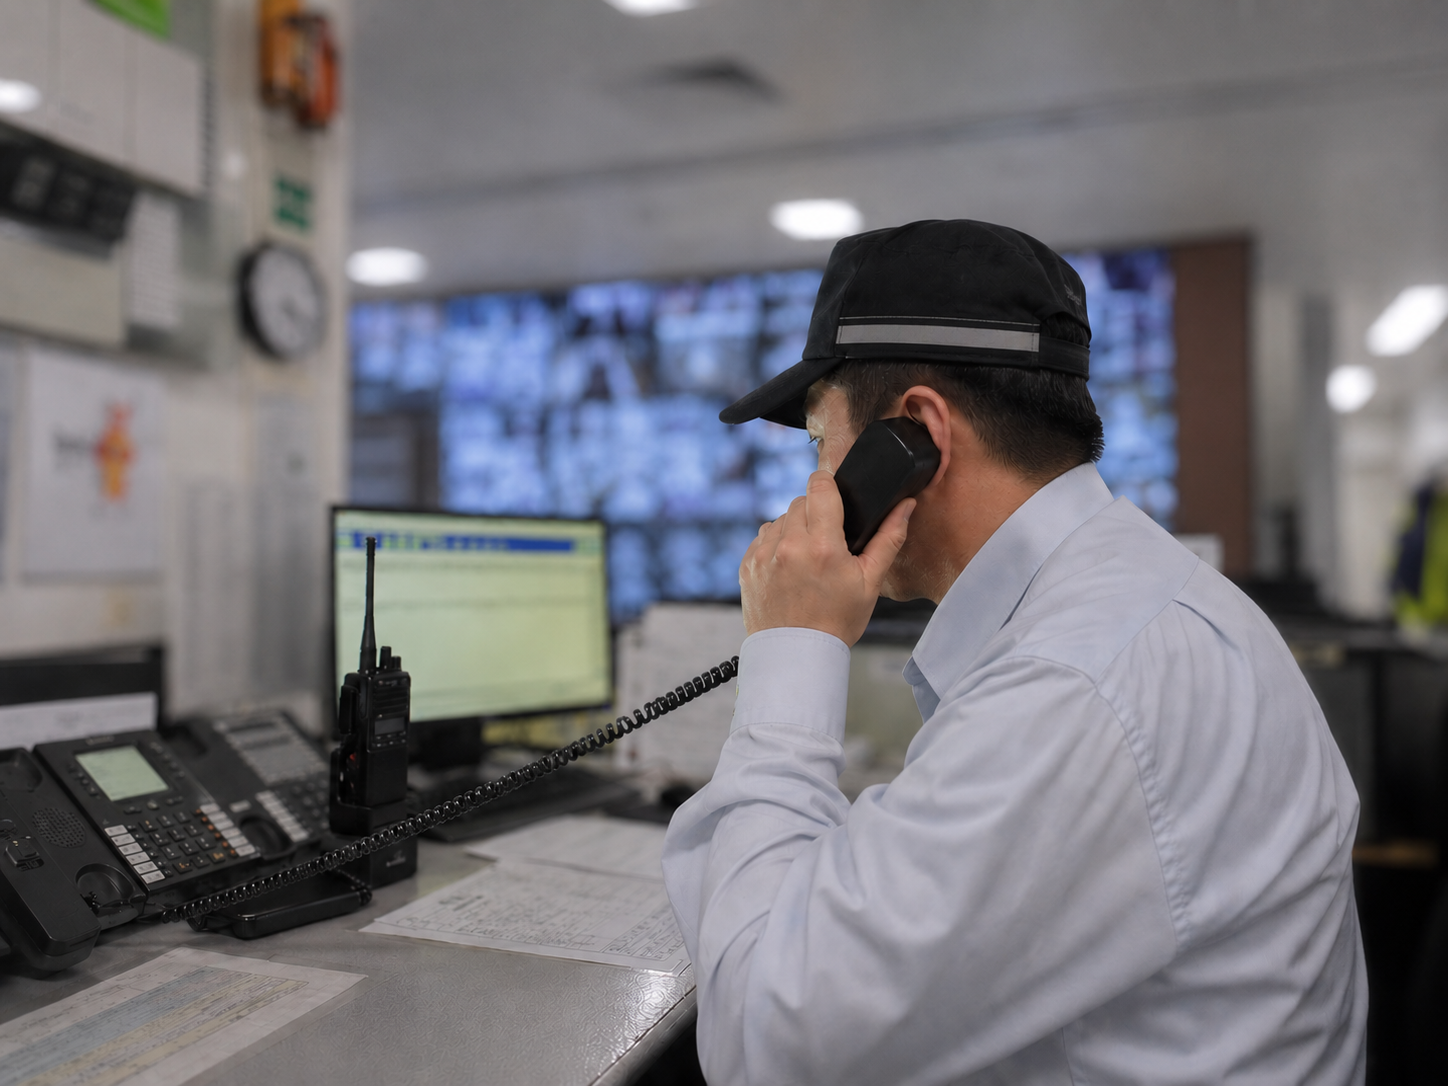
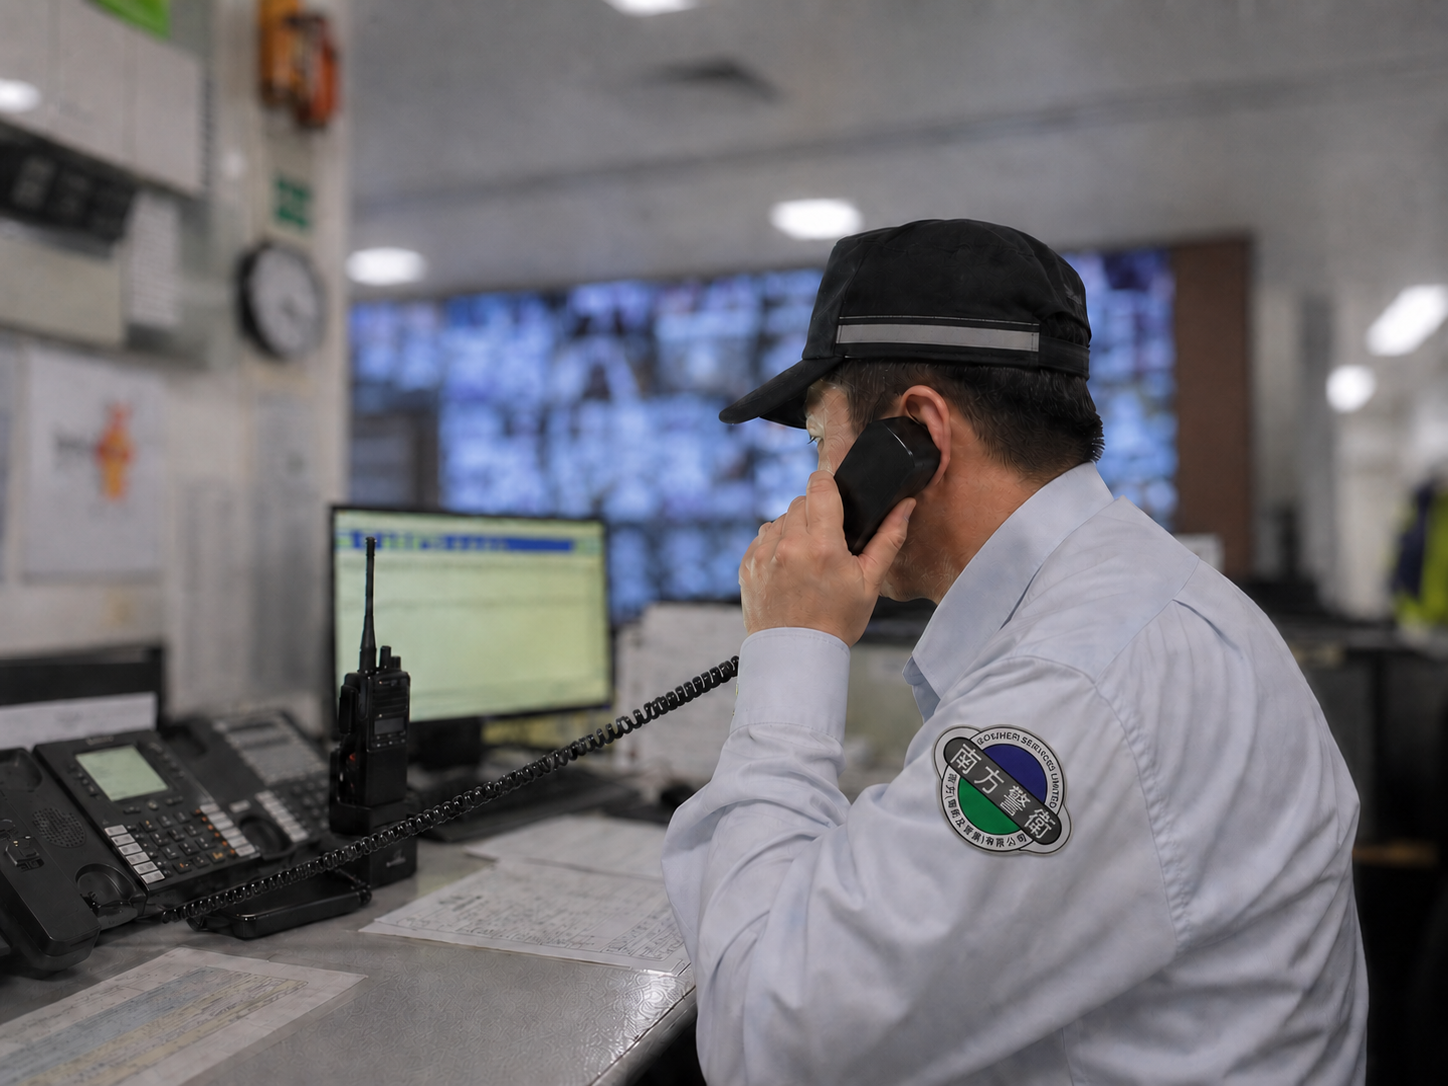
update several images

Changed region(s): [[0.6215, 0.6685, 0.7459, 0.7901], [0.4351, 0.9116, 0.4662, 0.942]]

diff --git a/frontend/src/components/sections/ServicesSection.tsx b/frontend/src/components/sections/ServicesSection.tsx
@@ -12,7 +12,7 @@ const images = [
   "/images/warehouse.png",
   "/images/personal_body_guard.png",
   "/images/rounded_cctv_camera.png",
-  "/images/car_patrol1.png",
+  "/images/car_fleet.png",
   "/images/security_report.png",
 ];
 